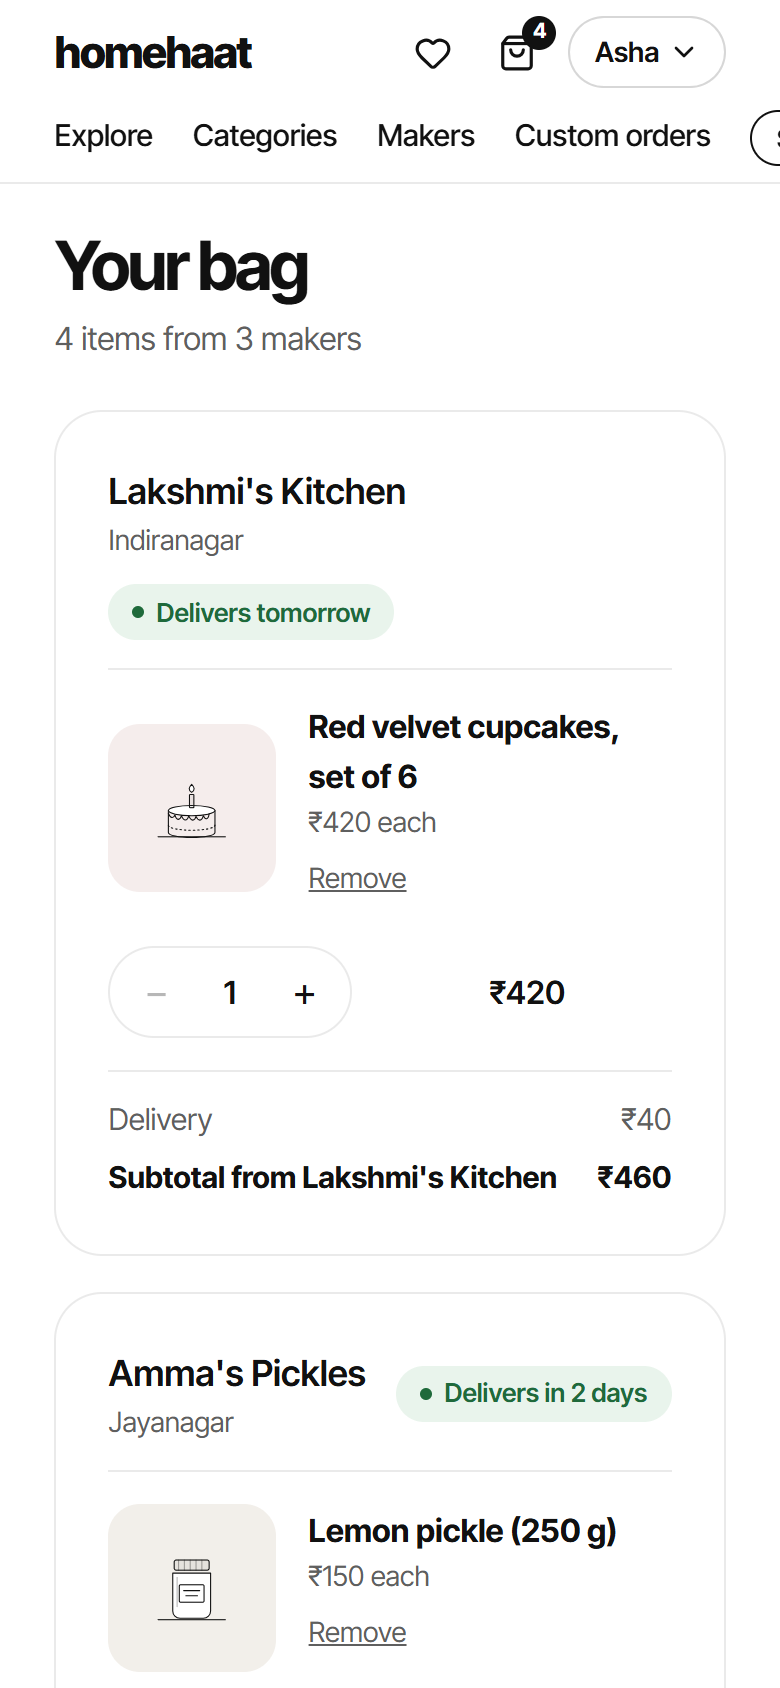
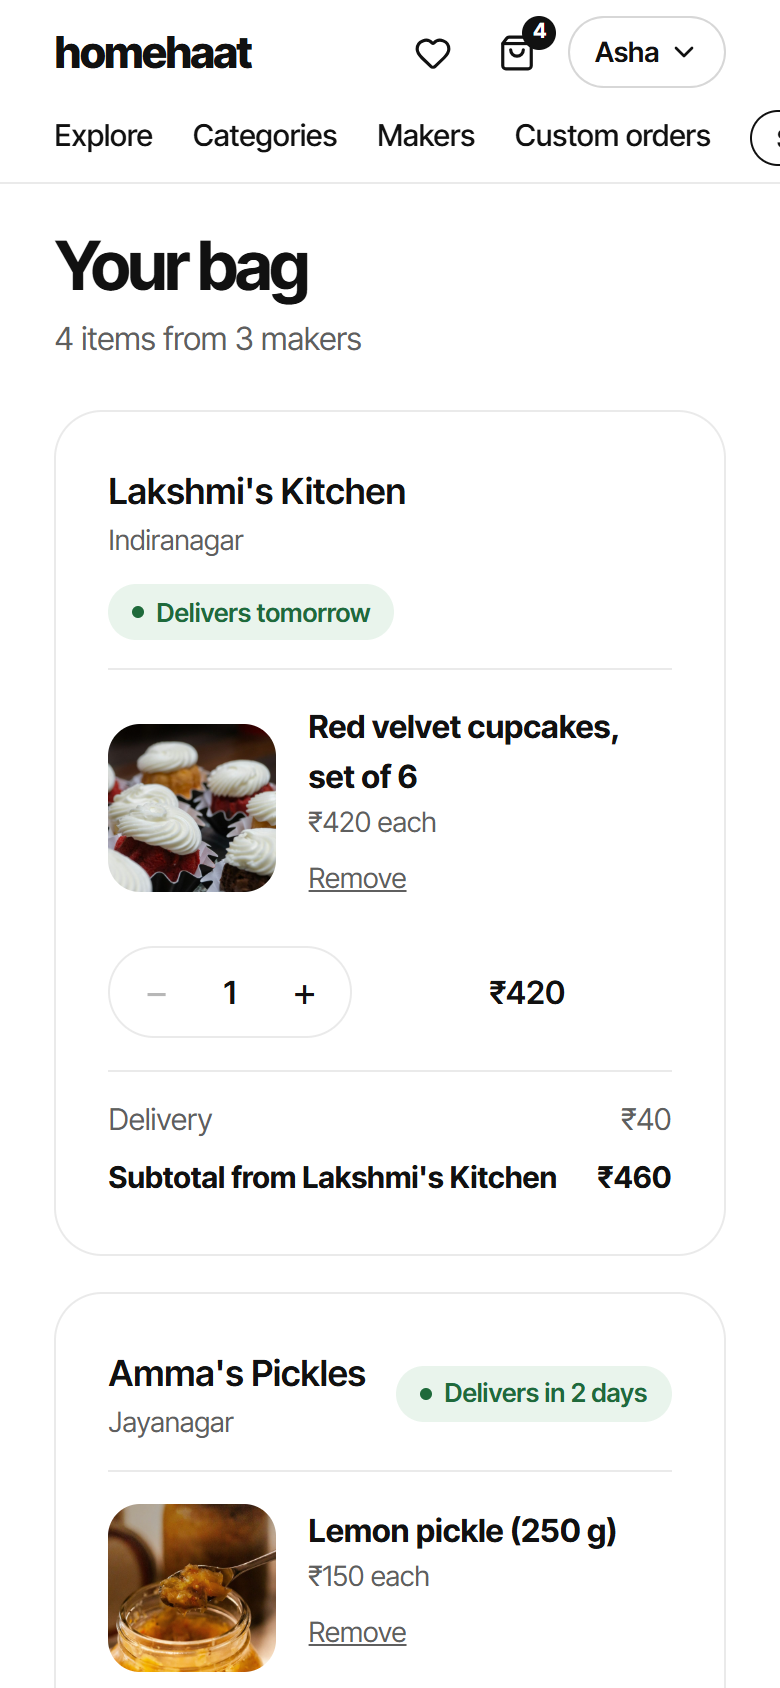
docs: real product photos in the README screenshots
- docs/demo-photos: 20 free Unsplash photos (Unsplash License, not Unsplash+), one per demo product,
  with photographer credits in CREDITS.md
- Screenshots retaken from the throwaway copy: every product card has its own fitting photo; demo shops
  now cover all 8 categories; only the banana loaf is out of stock, on purpose
- README: photo credits line

Changed region(s): [[0.1231, 0.8934, 0.3692, 1.0], [0.1231, 0.4313, 0.3692, 0.5545]]

diff --git a/docs/demo-photos/CREDITS.md b/docs/demo-photos/CREDITS.md
@@ -1,0 +1,32 @@
+# Demo photo credits
+
+These photos are used only for the fake demo products in the README screenshots (`docs/screenshots/`). They are from
+[Unsplash](https://unsplash.com) and free to use under the [Unsplash License](https://unsplash.com/license). Each one
+was checked on its Unsplash page: all are "Free to use under the Unsplash License" (none are Unsplash+). They were
+cropped to a square and resized.
+
+| File | Photographer | Unsplash page |
+|---|---|---|
+| red-velvet-cupcakes.jpg | Jessica Tan | <https://unsplash.com/photos/HRz78whvJ-w> |
+| banana-walnut-loaf.jpg | Cody Chan | <https://unsplash.com/photos/a0fBbS8RZAo> |
+| butter-cookies.jpg | Joanna Kosinska | <https://unsplash.com/photos/NiCOs-ceH9Q> |
+| chocolate-truffle-cake.jpg | Mustafa Fatemi | <https://unsplash.com/photos/HEZsj1LyWbk> |
+| mango-pickle.jpg | Sourav Paul | <https://unsplash.com/photos/hu-FiXwvw_w> |
+| lemon-pickle.jpg | Tracey Parish | <https://unsplash.com/photos/bDmTwRIc0Hc> |
+| mixed-vegetable-pickle.jpg | MAK | <https://unsplash.com/photos/1UQjDNfp5fw> |
+| banana-chips.jpg | Sean McClintock | <https://unsplash.com/photos/4JY0X81wthg> |
+| samosas.jpg | kabir cheema | <https://unsplash.com/photos/8T9AVksyt7s> |
+| abstract-canvas.jpg | Steve A Johnson | <https://unsplash.com/photos/OL3NXdEwfnI> |
+| fox-watercolour.jpg | Fuu J | <https://unsplash.com/photos/g0GyY9aLBdY> |
+| blouse-stitching.jpg | Ashley Diane Worsham | <https://unsplash.com/photos/F14VKsS0iL8> |
+| alterations.jpg | Elio Santos | <https://unsplash.com/photos/5ZQn_gWKvLE> |
+| kids-clothes.jpg | Markus Spiske | <https://unsplash.com/photos/TXvCcWl3nEI> |
+| macrame-wall-hanging.jpg | Jonathan Borba | <https://unsplash.com/photos/Z1oJwd3kyu0> |
+| gift-box.jpg | Nathan Lemon | <https://unsplash.com/photos/W7nbakRx1Ks> |
+| beaded-earrings.jpg | engin akyurt | <https://unsplash.com/photos/7px-5vm-GIY> |
+| beaded-necklace.jpg | Artem Beliaikin | <https://unsplash.com/photos/yx4YPa9zWZo> |
+| ceramic-planters.jpg | Joran Quinten | <https://unsplash.com/photos/Ugf8v3hePXM> |
+| ceramic-mugs.jpg | Katja Vogt | <https://unsplash.com/photos/CipURjPCXOo> |
+
+The category tiles and showcase cards on the site use other Unsplash photos chosen in Stage 4
+(`backend/catalog/management/commands/seed_categories.py`).

diff --git a/CLAUDE.md b/CLAUDE.md
@@ -1012,3 +1012,8 @@ always releases them first. When nobody is using the site, a held item blocks no
   streets; phone numbers masked as 98XXX XXXXX); StatCard note moved under the number and the Overview stats in a
   2 / 4 column grid (the "4 · 2 out of stock" text wrapped badly). Git history scanned for secrets before going
   public: none found (only placeholders); the commit author email is public in every commit.
+- **README photos**: `docs/demo-photos/` = 20 free Unsplash photos (each page checked: "Unsplash License", not
+  Unsplash+; photographers in `CREDITS.md`), one per demo product, attached only on the throwaway copy through
+  `clean_image` like a real upload. Demo shops now cover all 8 categories (added Crunch Corner, Knot & Paper,
+  Bead & Thread); products renamed where no fitting free photo existed (no kolam/Madhubani photos; museum paintings
+  skipped). Only the banana loaf is out of stock, on purpose. Screenshots retaken; README has a photo credits line.

diff --git a/docs/README.md b/docs/README.md
@@ -4,3 +4,4 @@ HomeHaat docs (seller guide, deploy guide) go here.
 - [deploy.md](deploy.md): putting HomeHaat online for free (Neon, Cloudinary, Render, Vercel, GitHub), click by click
 - [razorpay-setup.md](razorpay-setup.md): getting Razorpay test keys
 - [screenshots/](screenshots): the README screenshots (fake demo data)
+- [demo-photos/](demo-photos): the Unsplash photos used for the demo products (credits inside)

diff --git a/README.md b/README.md
@@ -30,6 +30,9 @@ On a phone:
 
 All names, shops and addresses in the screenshots are made-up demo data.
 
+Photo credits: [Unsplash](https://unsplash.com) (free under the Unsplash License); photographers are listed in
+[docs/demo-photos/CREDITS.md](docs/demo-photos/CREDITS.md).
+
 ## Features
 
 **For buyers**
